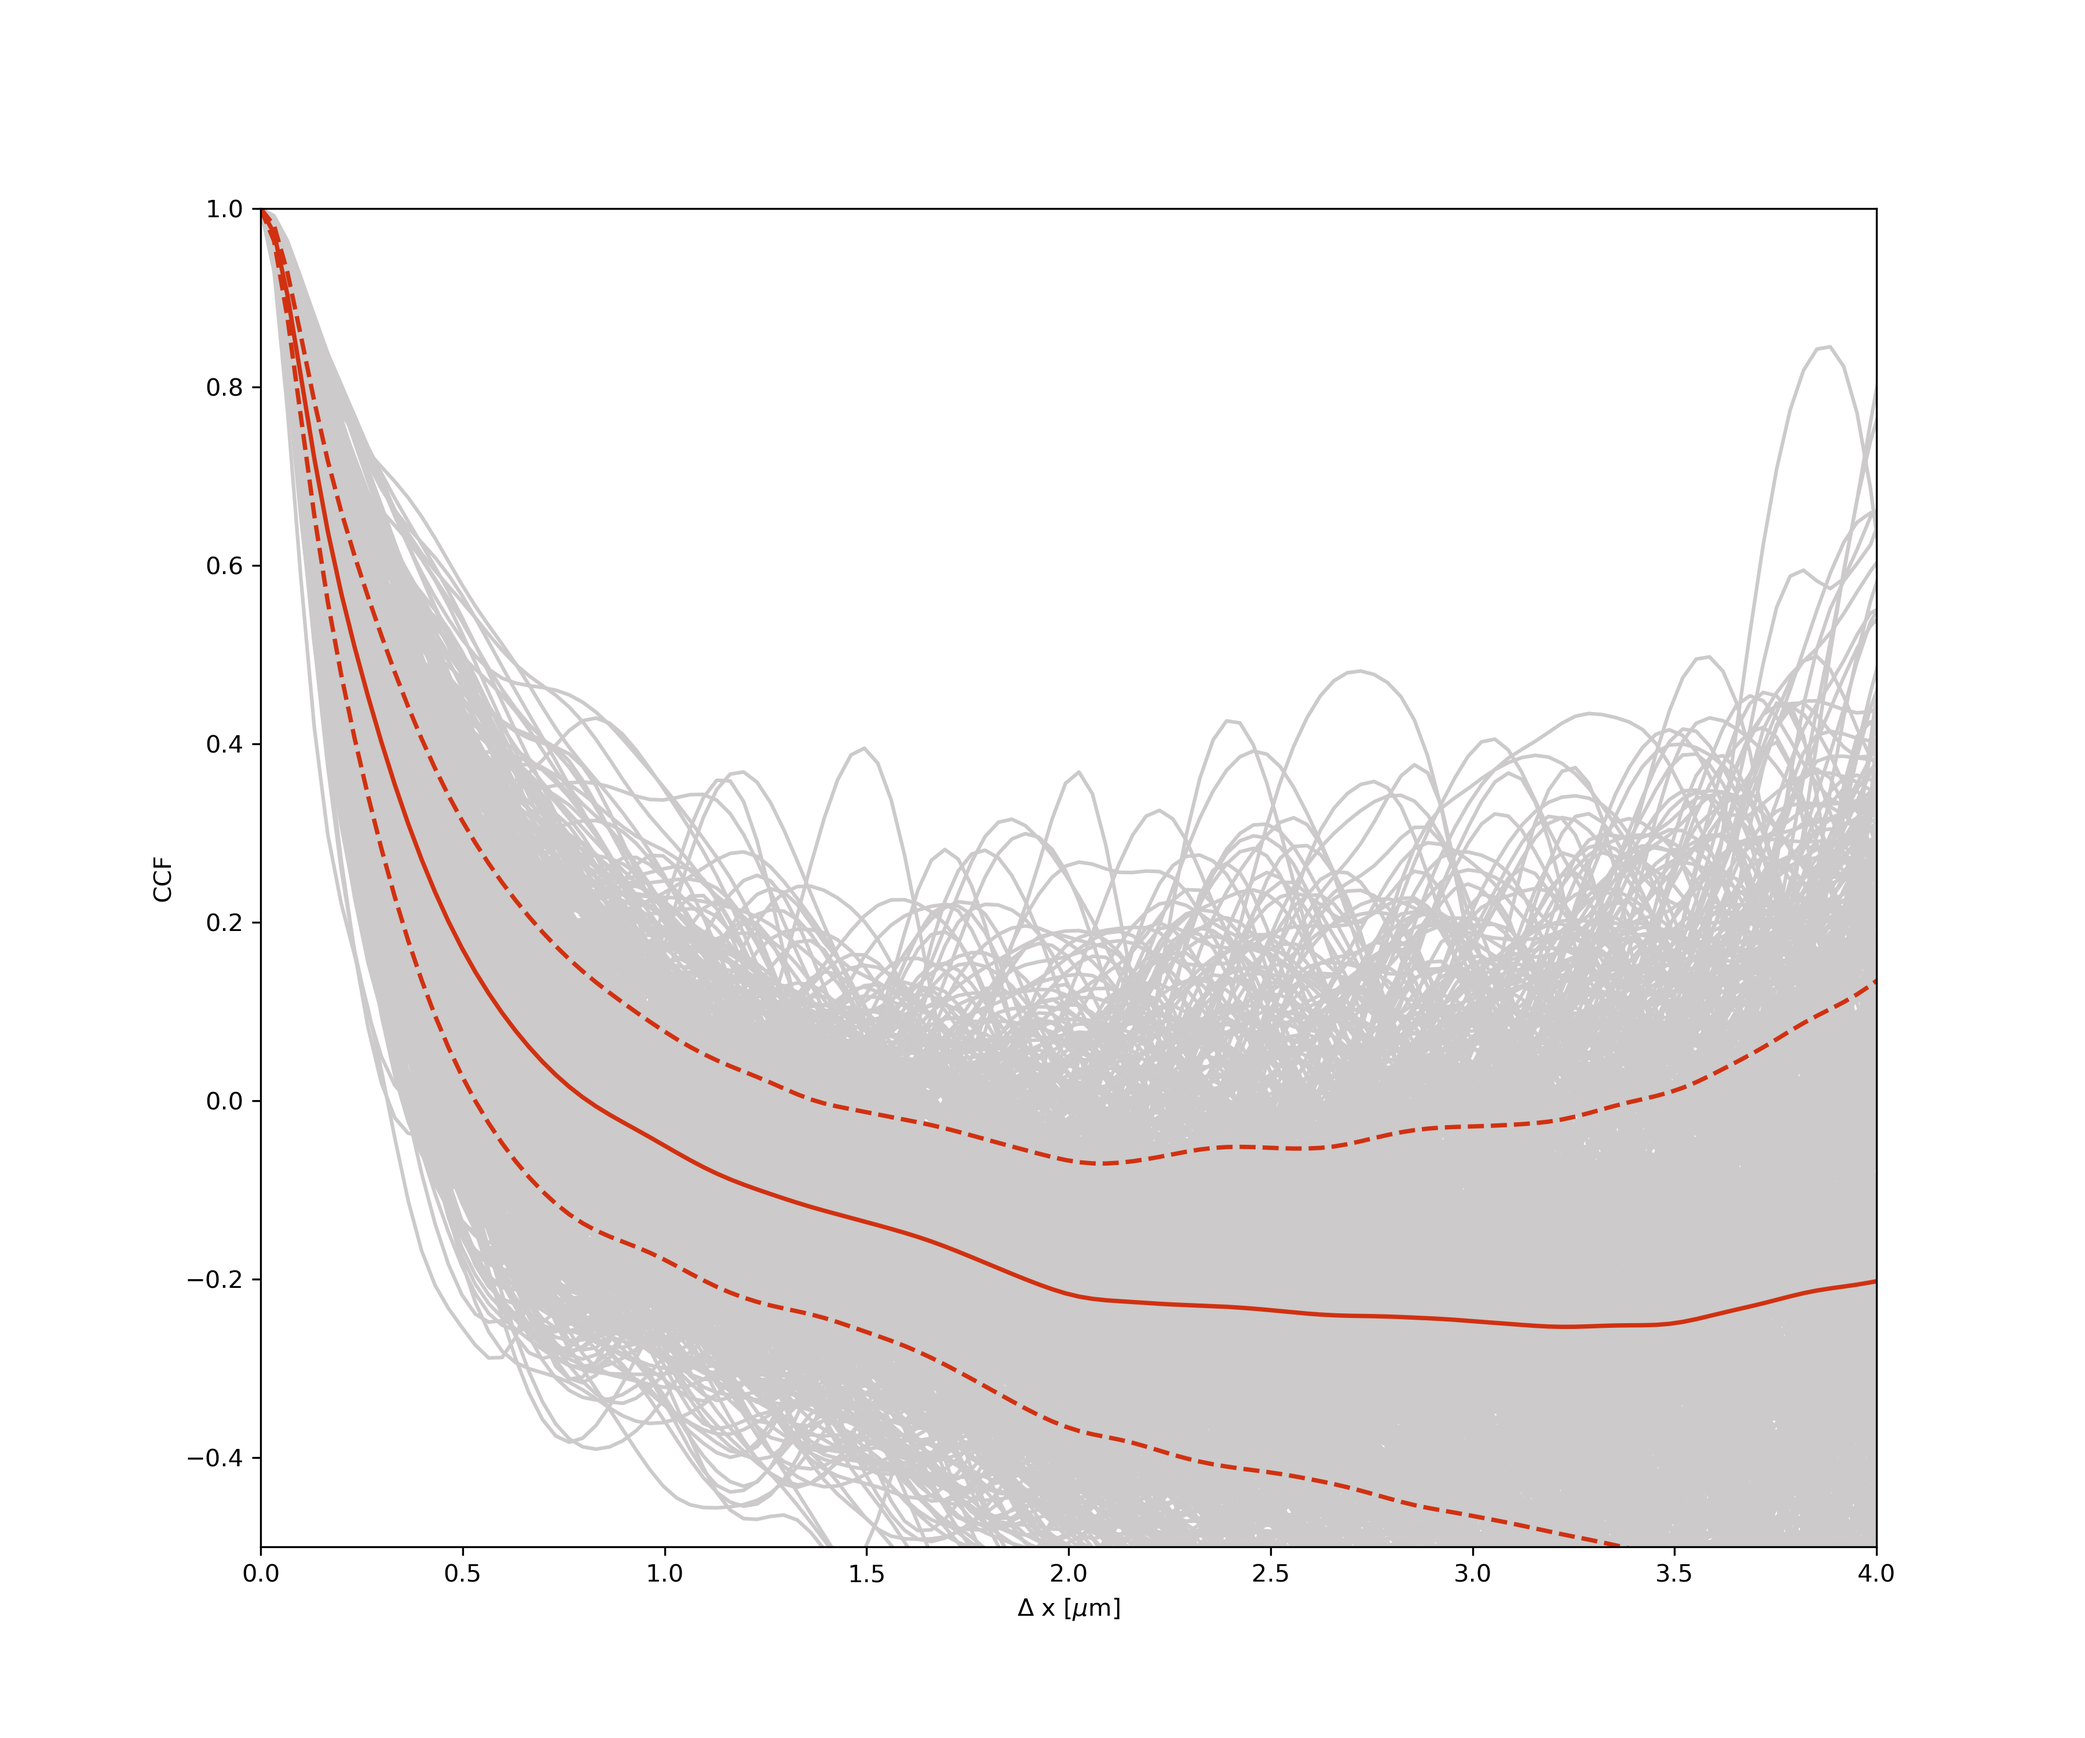
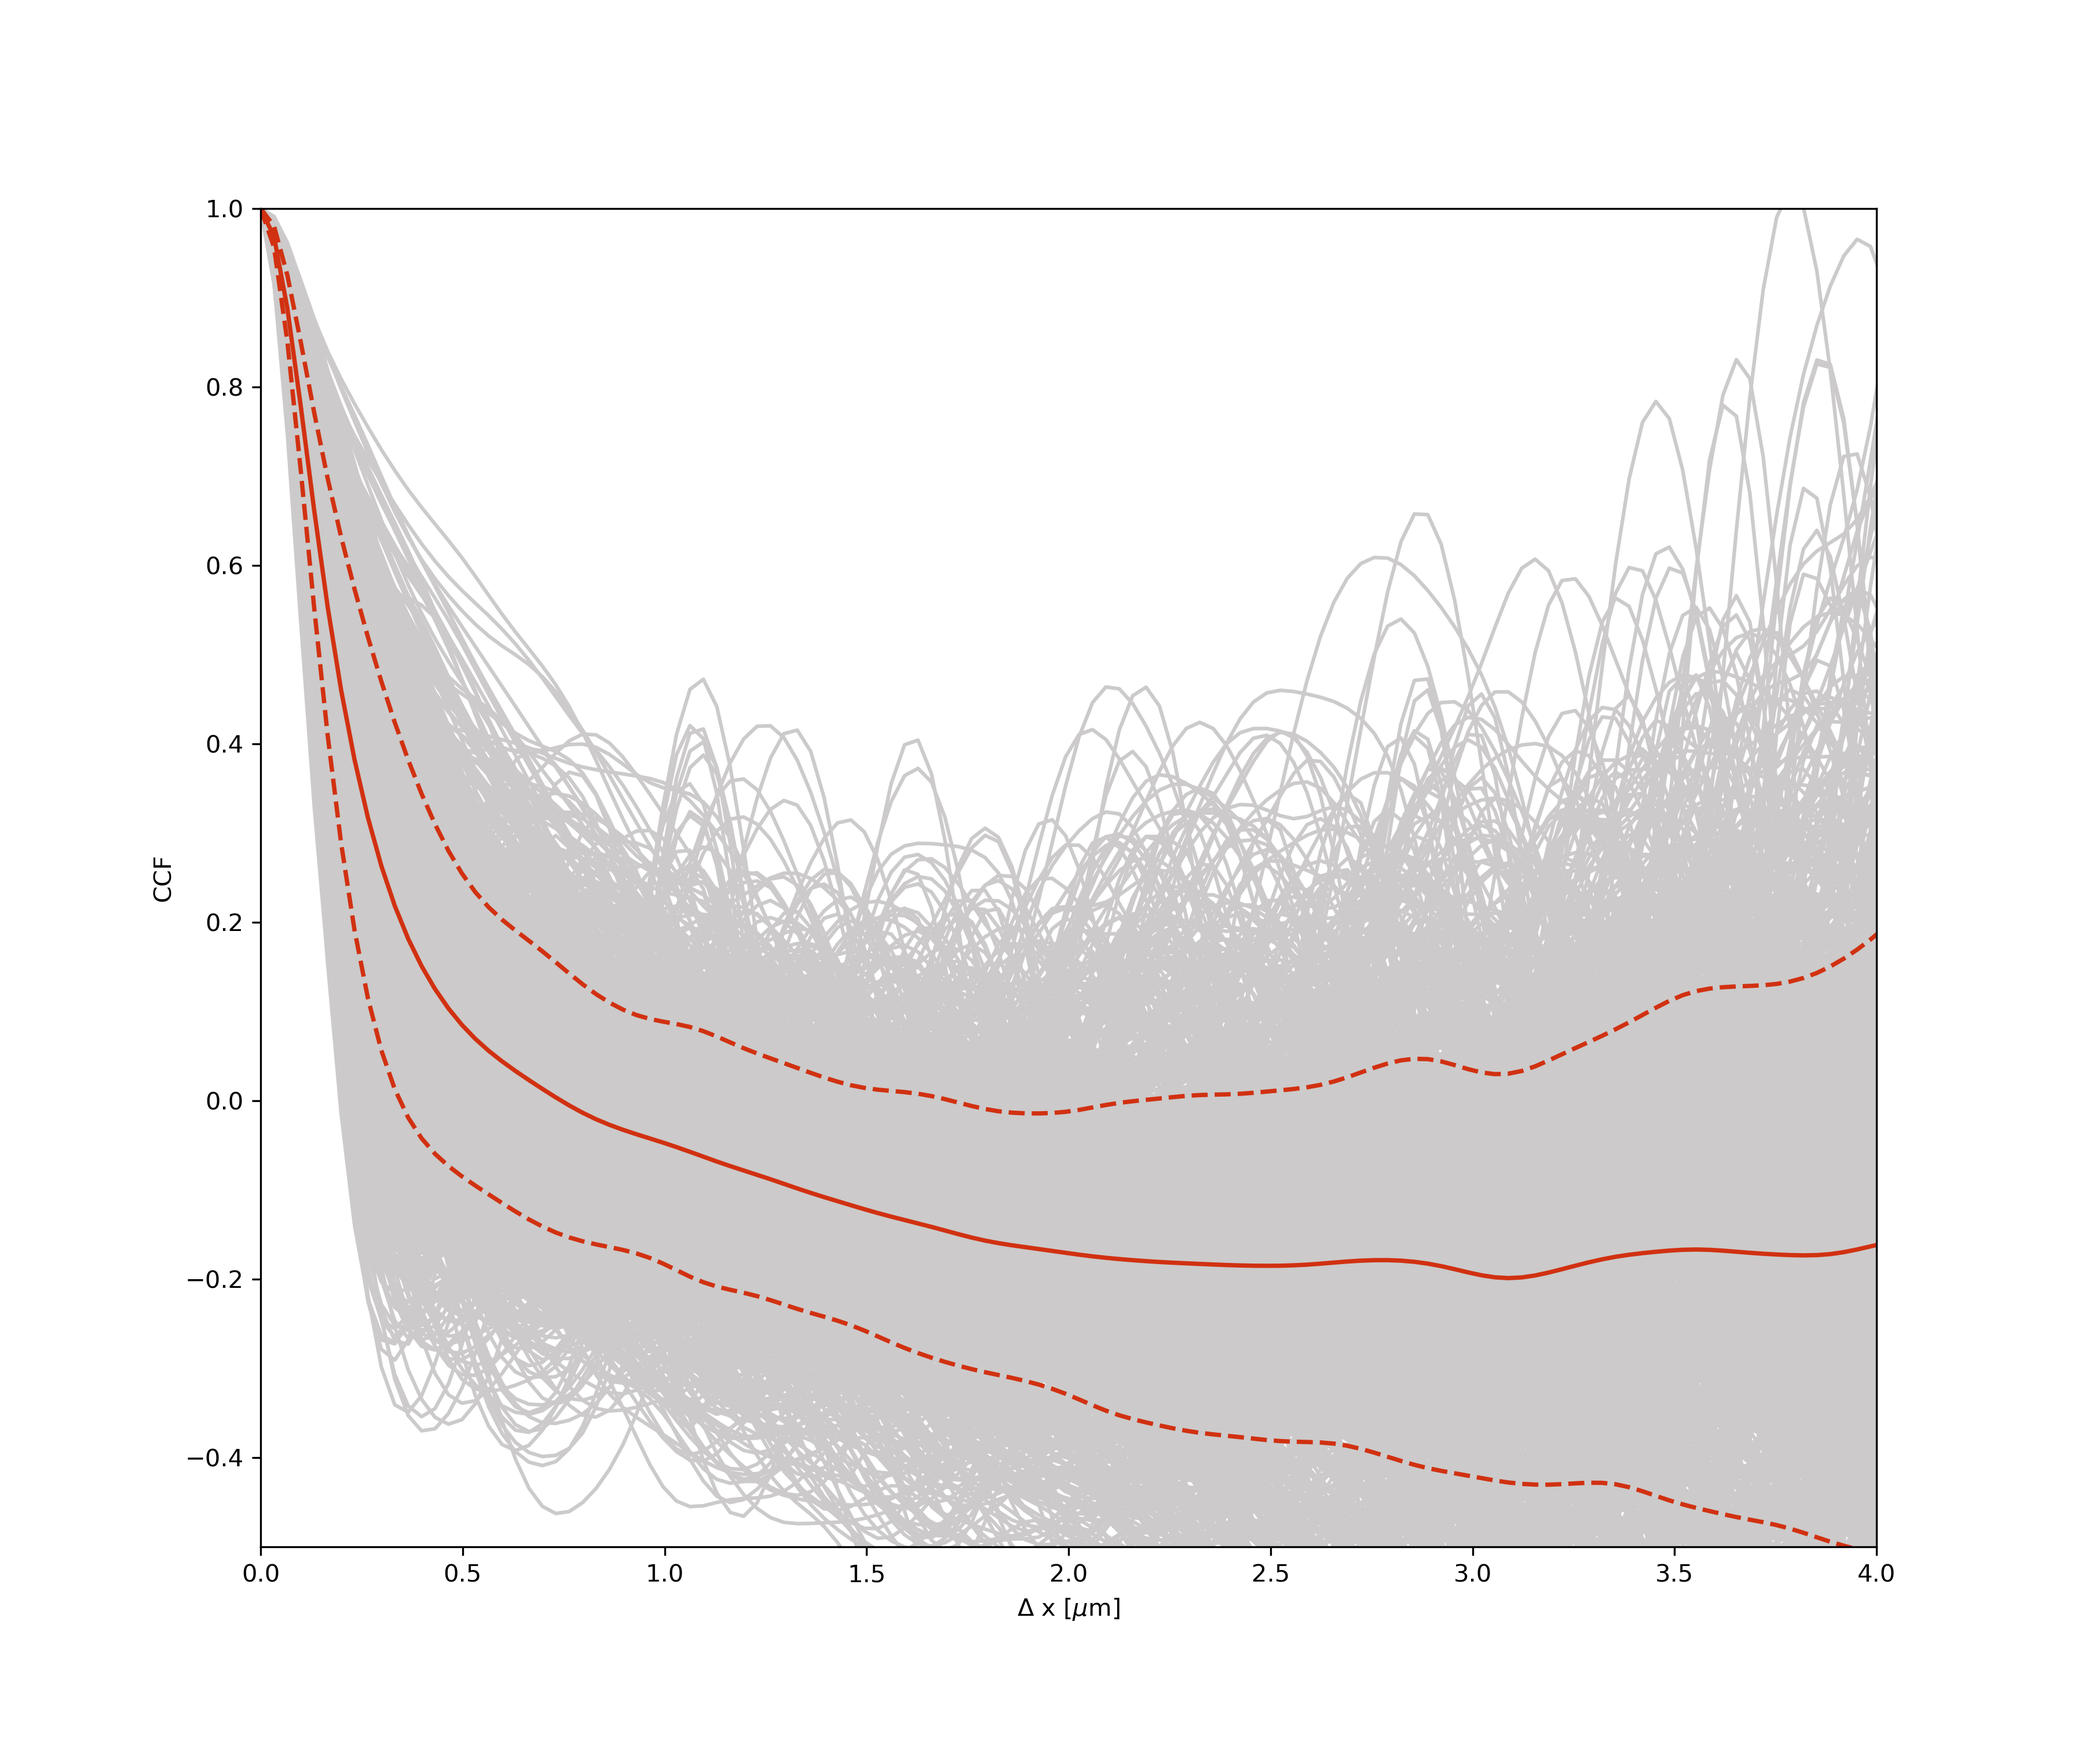
small fix

diff --git a/image.py b/image.py
@@ -172,8 +172,8 @@ def crop_around_extrema(x, y, prominence, factor, fig_ax=None):
         idx_3 = idx_2 + np.argmin(np.abs(np.array(norm_right_tmp)-norm_tmp))
         val_3 = y[idx_3]
         
-    # If the distance between the first minimum and maximum is too large, ignore the first minimum
-    elif x[idx_2] - x[idx_1] > 1.5 * (x[idx_3] - x[idx_2]):
+    # If the distance between the first minimum and the following maximum is too large, ignore the first minimum
+    elif x[idx_2] - x[idx_1] > 1.5 * (x[idx_3] - x[idx_2]) and idx_3 != len(x)-1:
         idx_1, val_1 = None, None
         y_min = val_3
         
@@ -219,8 +219,8 @@ def crop_around_extrema(x, y, prominence, factor, fig_ax=None):
         ax.plot(x[idx_3], y[idx_3], 'o', color='m')
         ax.vlines(x[start_idx], ymin=min(y), ymax=max(y), colors='k', linestyles='dashed')
         ax.vlines(x[end_idx], ymin=min(y), ymax=max(y), colors='k', linestyles='dashed')
-        return start_idx, end_idx, diff, (fig, ax)
-    return start_idx, end_idx, diff, None
+        return start_idx, end_idx, diff,[idx_1, idx_2, idx_3], (fig, ax)
+    return start_idx, end_idx, diff,[idx_1, idx_2, idx_3], None
 
 def plot_fourier_peaks(omega_valid, amplitude_valid):
     fig, (ax1, ax2) = plt.subplots(1, 2, figsize=(12, 10))
@@ -900,7 +900,7 @@ class ImageAnalysis:
             - xy_values_k0: start xi and endposition yi of each detected sructure( xy_values_k0[t, 0] = xi, xy_values_k0[t, 1] = yi)
             - steerable_bool: Flag indicating that the steerable filter has been applied
         """
-        #TODO: maybe once for 180 angles, then clustering and only then measure again for the two/3 directions with highest percentage
+        
         # Resize the raw image and the mask to fit the number of ROIs
         raw_rsize = resize(self.raw, (self.nGridY, self.nGridX), order=0)  # order=0 --> nearest neighbor interpolation
         raw_rsize = raw_rsize.astype(np.float64)
@@ -1191,13 +1191,13 @@ class ImageAnalysis:
                 try:  
                     prominence = np.percentile(ccf, percent)
                     if not plot:
-                        start_idx, end_idx, diff, _= crop_around_extrema(lags, ccf, prominence, factor)
+                        start_idx, end_idx, diff, [idx_1, idx_2, idx_3],_= crop_around_extrema(lags, ccf, prominence, factor)
                     else:
                         if clear:
                             ax.clear()
                         else:
                             fig, ax = plt.subplots(figsize=(12, 10))
-                        start_idx, end_idx, diff, (fig, ax)= crop_around_extrema(lags, ccf, prominence, factor, (fig, ax))
+                        start_idx, end_idx, diff, [idx_1, idx_2, idx_3], (fig, ax)= crop_around_extrema(lags, ccf, prominence, factor, (fig, ax))
                     lags_crop = lags[start_idx:end_idx]
                     ccf_crop = ccf[start_idx:end_idx]
                     invalid_crop = False
@@ -1226,8 +1226,14 @@ class ImageAnalysis:
                     
                 popt, pcov, mse = sine_fit(lags_crop, ccf_crop, guess)
                 
-                if np.abs(popt[1])>1.5*np.abs(max(ccf_crop)-min(ccf_crop))/2:
-                    print(f"An error occurred during sine fitting for {i}th ccf: ", f'amplitude of fit is too large ({round(np.abs(popt[1]), 2)} >> {round(np.abs(max(ccf_crop)-min(ccf_crop))/2, 2)})')
+                if np.abs(popt[1])>1.3*diff/2:
+                    print(f"An error occurred during sine fitting for {i}th ccf: ", f'amplitude of fit is too large ({round(np.abs(popt[1]), 2)} >> {round(diff/2, 2)})')
+                    factor += 1/10
+                    clear = True
+                    if factor > 1/2:
+                        return None, None, None
+                elif np.abs(1/(popt[2]))>1.5* (lags[idx_3]-lags[idx_1]):
+                    print(f"An error occurred during sine fitting for {i}th ccf: ", f'wavelength of fit is too large ({round(np.abs(1/popt[2]), 2)} >> {round(lags[idx_3]-lags[idx_1], 2)})')
                     factor += 1/10
                     clear = True
                     if factor > 1/2:
@@ -1838,6 +1844,7 @@ class ROI(ImageAnalysis):
         roi_mask_superclass = self.image_analysis.raw_roi_mask_array[self.i].copy()
         anglemap = self.image_analysis.anglemap.copy()
         anglemap[roi_mask_superclass == 0] = 0
+        # TODO: add check if steerable filter has already been applied
         
         self.create_roi_mask() 
         anglemap = anglemap[self.ny0:self.ny1, self.nx0:self.nx1]
